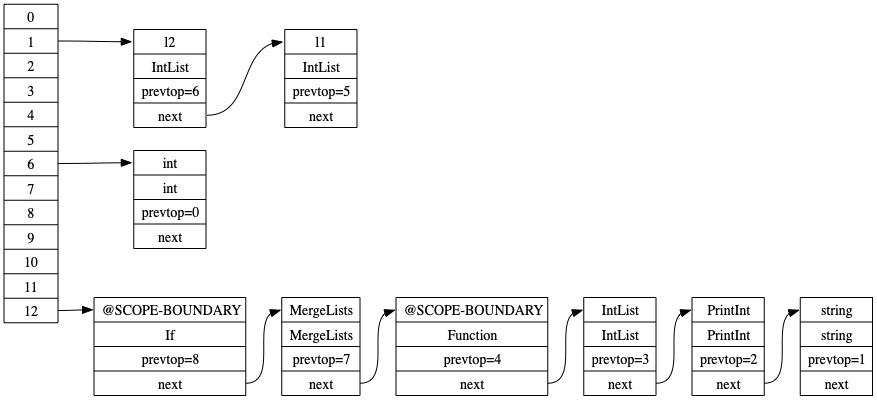
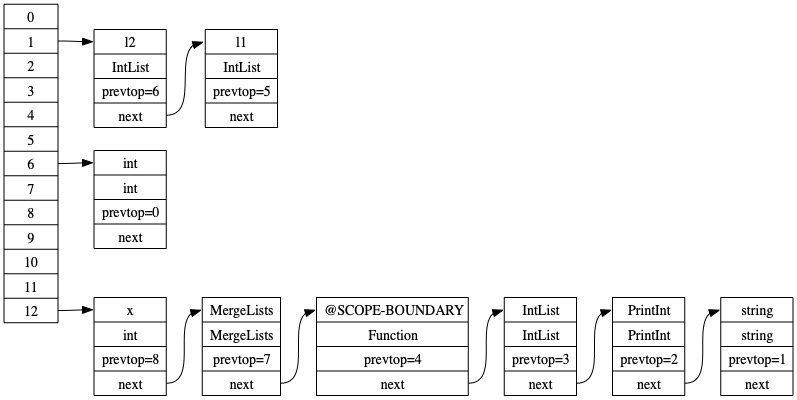
fix: class field list dynamic

diff --git a/ex3/src/AST/AST_VAR_FIELD.java b/ex3/src/AST/AST_VAR_FIELD.java
@@ -28,14 +28,14 @@ public class AST_VAR_FIELD extends AST_VAR {
 	public TYPE SemantMe(){
 		TYPE t = this.var.SemantMe();
 		if (!(t instanceof TYPE_CLASS)){
-			System.out.format(">> ERROR [%d:%d] access field of non-class variable\n",6,6);
+			System.out.format(">> ERROR access field of non-class variable\n");
 			System.exit(0);
 			return null;
 		}
 		TYPE_CLASS tc = (TYPE_CLASS)t;
 		TYPE tf = tc.findField(this.fieldName);
 		if (tf == null){
-			System.out.format(">> ERROR [%d:%d] field %s does not exist in class\n",6,6,this.fieldName);
+			System.out.format(">> ERROR field does not exist in class\n");
 			System.exit(0);
 			return null;
 		}

diff --git a/ex3/src/AST/AST_CLASS_FIELD_LIST.java b/ex3/src/AST/AST_CLASS_FIELD_LIST.java
@@ -28,18 +28,19 @@ public class AST_CLASS_FIELD_LIST extends AST_Node {
 
 	public TYPE SemantMe(TYPE_CLASS father, TYPE_LIST l){
 		TYPE h;
+
 		if (this.value instanceof AST_FUNC_DEC ast_func_dec){
 			h = ast_func_dec.SemantMe(father);
 		}else{
 			h = this.value.SemantMe(); 
 		}
 
+		l.head = h;
 		if (this.next == null){
-			l = new TYPE_LIST(h, null);
-		}else{
-			l = new TYPE_LIST(h, (TYPE_LIST)this.next.SemantMe(father, l));
+			return l;
 		}
-
+		l.tail = new TYPE_LIST(null, null);
+		l.tail = (TYPE_LIST)this.next.SemantMe(father, l.tail);
 		return l;
 	}
 }

diff --git a/ex3/src/AST/AST_CLASS_DEC.java b/ex3/src/AST/AST_CLASS_DEC.java
@@ -50,7 +50,14 @@ public class AST_CLASS_DEC extends AST_DEC {
 		TYPE_LIST f = new TYPE_LIST(null, null);
 		TYPE_CLASS c = new TYPE_CLASS((TYPE_CLASS)father, cName, f);
 		t.enter(cName, c);
-		fields.SemantMe((TYPE_CLASS)father, f);
+		fields.SemantMe((TYPE_CLASS)father, c.data_members);
+
+		TYPE_LIST templist = c.data_members;
+		while(templist != null){
+			System.out.println("filed####################"+templist.head.name+"\n");
+			templist = templist.tail;
+		}
+
 		t.endScope();
 
 		t.enter(cName, c);

diff --git a/ex3/src/AST/AST_STMT_IF.java b/ex3/src/AST/AST_STMT_IF.java
@@ -29,14 +29,13 @@ public class AST_STMT_IF extends AST_STMT {
 
 	@Override
 	public TYPE SemantMe(){
+		SYMBOL_TABLE.getInstance().beginScope("If");
 		TYPE t = cond.SemantMe();
 		if (t != TYPE_INT.getInstance()){
 			System.out.format(">> condition inside if statement is not of type int\n");
 			System.exit(0);
 			return null;
 		}
-		SYMBOL_TABLE.getInstance().beginScope("If");
-
 		body.SemantMe();
 
 		SYMBOL_TABLE.getInstance().endScope();
